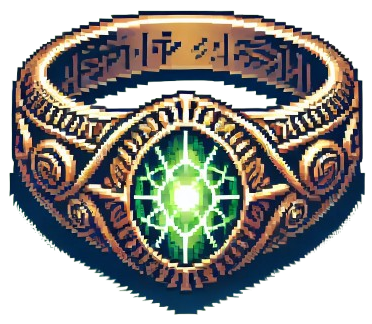
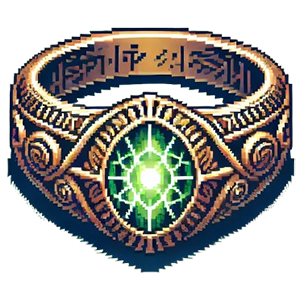
Misc Items + TradeScene sellable items

diff --git a/assets/styles/layout/game/trade/_main.scss b/assets/styles/layout/game/trade/_main.scss
@@ -37,12 +37,12 @@
       }
 
       & > .scrollable {
-        min-height: 51dvh;
-        max-height: 51dvh;
+        min-height: 49dvh;
+        max-height: 49dvh;
 
         @include respondTo(md) {
-          min-height: 55dvh;
-          max-height: 55dvh;
+          min-height: 53dvh;
+          max-height: 53dvh;
         }
 
         .app-grid {
@@ -97,6 +97,7 @@
 
       .fortune {
         @include displayFlex(center, center, 0.25rem);
+        margin-top: 1rem;
         text-shadow: 2px 2px 2px rgba($black, 0.85);
 
         .app-icon {

diff --git a/src/DataFixtures/Item/MiscFixtures.php b/src/DataFixtures/Item/MiscFixtures.php
@@ -21,7 +21,7 @@ class MiscFixtures extends Fixture implements OrderedFixtureInterface
                 'type' => 'map',
                 'description' => "<p>Cette carte finement tracée dévoile les secrets du petit Royaume de l'Île du Nord. Très pratique pour quiconque souhaite percer les mystères de l'île.</p>",
                 'picture' => 'map_royaume-de-lile-du-nord.png',
-                'buyPrice' => 50,
+                'buyPrice' => 100,
                 'mandatory' => true,
                 'reference' => 'misc_map_royaume_de_lile_du_nord',
             ],
@@ -31,9 +31,119 @@ class MiscFixtures extends Fixture implements OrderedFixtureInterface
                 'type' => 'map',
                 'description' => "<p>Ce parchemin révèle les moindres détails de la capitale Port Saint-Doux, ses quais animés, ses marchés colorés et ses ruelles labyrinthiques. Un indispensable pour quiconque souhaite explorer ses richesses ou éviter ses pièges.</p>",
                 'picture' => 'map_port-saint-doux.png',
-                'buyPrice' => 50,
+                'buyPrice' => 75,
                 'mandatory' => true,
                 'reference' => 'misc_map_port_saint_doux',
+            ],
+            [
+                'category' => 'category_gift',
+                'name' => 'Bouquet de fleurs',
+                'type' => 'gift',
+                'description' => "<p>Un charmant bouquet parfumé, parfait pour offrir ou égayer une journée.</p>",
+                'picture' => 'flowers.png',
+                'buyPrice' => 10,
+                'mandatory' => false,
+                'reference' => 'misc_gift_flowers',
+            ],
+            [
+                'category' => 'category_ring',
+                'name' => 'Anneau de cuivre',
+                'type' => 'gift',
+                'description' => "<p>Simple et modeste, cet anneau en cuivre est un bijou abordable au charme rustique.</p>",
+                'picture' => 'ring_copper.png',
+                'buyPrice' => 10,
+                'mandatory' => false,
+                'reference' => 'misc_ring_copper',
+            ],
+            [
+                'category' => 'category_ring',
+                'name' => "Anneau d'argent",
+                'type' => 'gift',
+                'description' => "<p>Raffiné et élégant, cet anneau en argent ajoute une touche de classe.</p>",
+                'picture' => 'ring_silver.png',
+                'buyPrice' => 100,
+                'mandatory' => false,
+                'reference' => 'misc_ring_silver',
+            ],
+            [
+                'category' => 'category_ring',
+                'name' => 'Anneau en or',
+                'type' => 'gift',
+                'description' => "<p>Symbole de richesse et de prestige, cet anneau en or brille d’élégance.</p>",
+                'picture' => 'ring_gold.png',
+                'buyPrice' => 200,
+                'mandatory' => false,
+                'reference' => 'misc_ring_gold',
+            ],
+            [
+                'category' => 'category_food',
+                'name' => 'Bouteille de vin',
+                'type' => 'food',
+                'description' => "<p>Une bouteille de vin rouge, parfaite pour accompagner un repas ou trinquer entre amis.</p>",
+                'picture' => 'food_wine.png',
+                'buyPrice' => 5,
+                'mandatory' => false,
+                'reference' => 'misc_food_wine',
+            ],
+            [
+                'category' => 'category_food',
+                'name' => 'Chope de bière',
+                'type' => 'food',
+                'description' => "<p>Une chope débordante de bière fraîche, idéale pour étancher la soif après une longue journée.</p>",
+                'picture' => 'food_beer.png',
+                'buyPrice' => 2,
+                'mandatory' => false,
+                'reference' => 'misc_food_beer',
+            ],
+            [
+                'category' => 'category_food',
+                'name' => 'Miche de pain',
+                'type' => 'food',
+                'description' => "<p>Une miche de pain dorée, incontournable pour un repas simple mais savoureux.</p>",
+                'picture' => 'food_bread.png',
+                'buyPrice' => 2,
+                'mandatory' => false,
+                'reference' => 'misc_food_bread',
+            ],
+            [
+                'category' => 'category_food',
+                'name' => 'Fromage de chèvre',
+                'type' => 'food',
+                'description' => "<p>Un fromage de chèvre crémeux et savoureux, parfait pour compléter un repas.</p>",
+                'picture' => 'food_cheese.png',
+                'buyPrice' => 3,
+                'mandatory' => false,
+                'reference' => 'misc_food_cheese',
+            ],
+            [
+                'category' => 'category_food',
+                'name' => 'Cuisse de poulet',
+                'type' => 'food',
+                'description' => "<p>Une cuisse de poulet rôtie, croustillante à l'extérieur et juteuse à l'intérieur.</p>",
+                'picture' => 'food_chicken.png',
+                'buyPrice' => 3,
+                'mandatory' => false,
+                'reference' => 'misc_food_chicken',
+            ],
+            [
+                'category' => 'category_food',
+                'name' => 'Poisson grillé',
+                'type' => 'food',
+                'description' => "<p>Ce poisson grillé est un délice pour les amateurs de saveurs marines.</p>",
+                'picture' => 'food_fish.png',
+                'buyPrice' => 4,
+                'mandatory' => false,
+                'reference' => 'misc_food_fish',
+            ],
+            [
+                'category' => 'category_food',
+                'name' => "Gigot d'agneau",
+                'type' => 'food',
+                'description' => "<p>Un gigot d'agneau tendre et savoureux, idéal pour un festin généreux.</p>",
+                'picture' => 'food_meat.png',
+                'buyPrice' => 5,
+                'mandatory' => false,
+                'reference' => 'misc_food_meat',
             ],
             // Quest items
         ];

diff --git a/src/DataFixtures/Item/NpcItemFixtures.php b/src/DataFixtures/Item/NpcItemFixtures.php
@@ -17,6 +17,61 @@ class NpcItemFixtures extends Fixture implements OrderedFixtureInterface
             // Sophie La Marchande
             [
                 'character' => 'npc_sophie_la_marchande',
+                'item' => 'misc_food_beer',
+                'class' => Misc::class,
+            ],
+            [
+                'character' => 'npc_sophie_la_marchande',
+                'item' => 'misc_food_wine',
+                'class' => Misc::class,
+            ],
+            [
+                'character' => 'npc_sophie_la_marchande',
+                'item' => 'misc_food_bread',
+                'class' => Misc::class,
+            ],
+            [
+                'character' => 'npc_sophie_la_marchande',
+                'item' => 'misc_food_cheese',
+                'class' => Misc::class,
+            ],
+            [
+                'character' => 'npc_sophie_la_marchande',
+                'item' => 'misc_food_chicken',
+                'class' => Misc::class,
+            ],
+            [
+                'character' => 'npc_sophie_la_marchande',
+                'item' => 'misc_food_fish',
+                'class' => Misc::class,
+            ],
+            [
+                'character' => 'npc_sophie_la_marchande',
+                'item' => 'misc_food_meat',
+                'class' => Misc::class,
+            ],
+            [
+                'character' => 'npc_sophie_la_marchande',
+                'item' => 'misc_gift_flowers',
+                'class' => Misc::class,
+            ],
+            [
+                'character' => 'npc_sophie_la_marchande',
+                'item' => 'misc_ring_copper',
+                'class' => Misc::class,
+            ],
+            [
+                'character' => 'npc_sophie_la_marchande',
+                'item' => 'misc_ring_silver',
+                'class' => Misc::class,
+            ],
+            [
+                'character' => 'npc_sophie_la_marchande',
+                'item' => 'misc_ring_gold',
+                'class' => Misc::class,
+            ],
+            [
+                'character' => 'npc_sophie_la_marchande',
                 'item' => 'misc_map_port_saint_doux',
                 'class' => Misc::class,
             ],

diff --git a/migrations/Version20241223112334.php b/migrations/Version20241223112334.php
@@ -20,7 +20,7 @@ final class Version20241223112334 extends AbstractMigration
     public function up(Schema $schema): void
     {
         // this up() migration is auto-generated, please modify it to your needs
-        $this->addSql('CREATE TABLE trade_scene (id INT NOT NULL, npc_id INT NOT NULL, PRIMARY KEY(id))');
+        $this->addSql('CREATE TABLE trade_scene (id INT NOT NULL, sellable_items JSON NOT NULL, npc_id INT NOT NULL, PRIMARY KEY(id))');
         $this->addSql('CREATE INDEX IDX_F3743F39CA7D6B89 ON trade_scene (npc_id)');
         $this->addSql('ALTER TABLE trade_scene ADD CONSTRAINT FK_F3743F39CA7D6B89 FOREIGN KEY (npc_id) REFERENCES npc (id) NOT DEFERRABLE INITIALLY IMMEDIATE');
         $this->addSql('ALTER TABLE trade_scene ADD CONSTRAINT FK_F3743F39BF396750 FOREIGN KEY (id) REFERENCES scene (id) ON DELETE CASCADE NOT DEFERRABLE INITIALLY IMMEDIATE');

diff --git a/src/Entity/Scene/TradeScene.php b/src/Entity/Scene/TradeScene.php
@@ -9,9 +9,24 @@ use Doctrine\ORM\Mapping as ORM;
 #[ORM\Entity(repositoryClass: TradeSceneRepository::class)]
 class TradeScene extends Scene
 {
+    #[ORM\Column]
+    private array $sellableItems = [];
+
     #[ORM\ManyToOne(inversedBy: 'tradeScenes')]
     #[ORM\JoinColumn(nullable: false)]
     private ?Npc $npc = null;
+
+    public function getSellableItems(): array
+    {
+        return $this->sellableItems;
+    }
+
+    public function setSellableItems(array $sellableItems): static
+    {
+        $this->sellableItems = $sellableItems;
+
+        return $this;
+    }
 
     public function getNpc(): ?Npc
     {

diff --git a/src/DataFixtures/Scene/TradeScene/TradeSceneFixtures.php b/src/DataFixtures/Scene/TradeScene/TradeSceneFixtures.php
@@ -26,6 +26,7 @@ class TradeSceneFixtures extends Fixture implements OrderedFixtureInterface
                 ->setDescription($data['description'] ?? null)
                 ->setPosition($data['position'] ?? null)
                 ->setScreen($this->getReference($data['screen'], TradeScreen::class))
+                ->setSellableItems($data['sellableItems'])
                 ->setNpc($this->getReference($data['npc'], Npc::class));
             $manager->persist($scene);
             $this->addReference($data['reference'], $scene);

diff --git a/src/DataFixtures/Scene/TradeScene/QuartierDuMarcheTrait.php b/src/DataFixtures/Scene/TradeScene/QuartierDuMarcheTrait.php
@@ -10,6 +10,11 @@ trait QuartierDuMarcheTrait
         'npc' => 'npc_sophie_la_marchande',
         'description' => "<p><em>Quelle belle journée pour faire un peu de commerce&nbsp;! Que puis-je pour vous&nbsp;?</em></p>",
         'screen' => 'screen_trade_sophie_la_marchande',
+        'sellableItems' => [
+            'map',
+            'gift',
+            'food',
+        ],
         'reference' => 'scene_trade_sophie_la_marchande',
     ];
 }

diff --git a/src/DataFixtures/Item/CategoryFixtures.php b/src/DataFixtures/Item/CategoryFixtures.php
@@ -62,6 +62,11 @@ class CategoryFixtures extends Fixture implements OrderedFixtureInterface
                 'position' => 10,
                 'reference' => 'category_food',
             ],
+            [
+                'name' => 'gift',
+                'position' => 11,
+                'reference' => 'category_gift',
+            ],
         ];
 
         foreach($categories as $data) {

diff --git a/src/Controller/Character/CreateController.php b/src/Controller/Character/CreateController.php
@@ -56,8 +56,6 @@ class CreateController extends AbstractController
             $entityManager->persist($character);
             $entityManager->flush();
 
-            $this->addFlash('success', "Bienvenue dans les Huit Royaumes<br/>{$character->getName()} !");
-
             return $this->redirectToRoute('app_home', [], Response::HTTP_SEE_OTHER);
         }
 

diff --git a/src/Controller/ProfileController.php b/src/Controller/ProfileController.php
@@ -31,8 +31,6 @@ class ProfileController extends AbstractController
             $entityManager->persist($user);
             $entityManager->flush();
 
-            $this->addFlash('success', "Votre profil a été modifié !");
-
             return $this->redirectToRoute('app_home', [], Response::HTTP_SEE_OTHER);
         }
 

diff --git a/src/Controller/RegisterController.php b/src/Controller/RegisterController.php
@@ -33,8 +33,6 @@ class RegisterController extends AbstractController
             $entityManager->persist($user);
             $entityManager->flush();
 
-            $this->addFlash('success', "Bienvenue {$user->getName()} !");
-
             return $security->login($user, 'form_login', 'main');
         }
 
